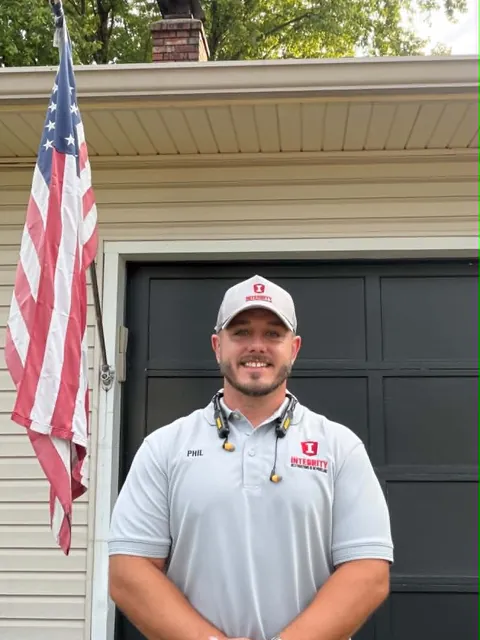
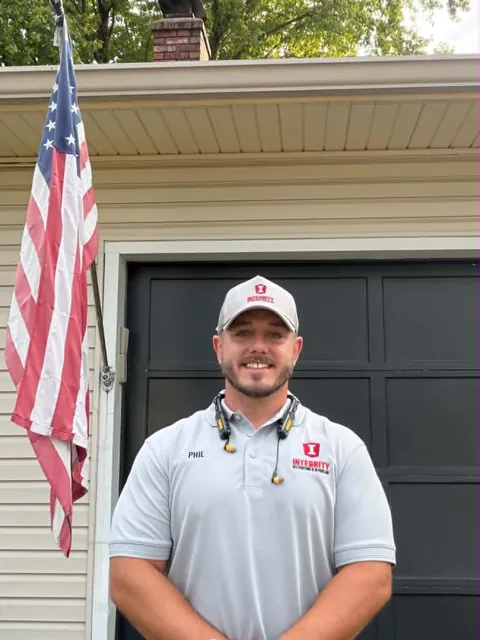
Meet Phil: back to photo one side, text the other; each photo is a frame that transitions between photos
Restores the two-column beats (and the second beat's rounded-corner
rule, which the full-width rebuild had dropped). The top frame opens on
Phil's portrait and wipes to the family photo; the second frame cycles
the three crew photos. Frames keep one fixed size. Dots under each
frame pick a photo and stop the rotation; it only runs while on screen;
reduced motion gets no rotation. Portrait re-cropped for the landscape
window, stray green edge in the source trimmed.

diff --git a/index.html b/index.html
@@ -750,39 +750,42 @@
                     <p class="section__lede" data-placeholder>Country kid from Preble County, family man in Trenton, and the standard behind the name.</p>
                 </header>
 
-                <!--two beats, both in Phil's own words (sent 9/17, lightly tidied for
-                    punctuation only). First: him. The family photo beside his
-                    portrait, his text beneath. Then the work: three crew
-                    photos across, his text beneath. This section is the one
-                    place the site speaks about Phil; everywhere else is "we".-->
+                <!--two beats, both in Phil's own words (sent 9/17, tidied for
+                    punctuation only). Photo one side, text the other, swapping
+                    sides beat by beat. Each photo is a FRAME of fixed size that
+                    script.js (beatSlides) transitions between photos: first Phil
+                    then his family; then the crew at work. The dots pick a photo
+                    and stop the rotation. Without JS the first photo shows.
+                    This section is the one place the site speaks about Phil;
+                    everywhere else is "we".-->
                 <ol class="story">
-                    <li class="beat beat--wide">
+                    <li class="beat">
+                        <figure class="beat__media">
+                            <div class="slides" data-slides>
+                                <img class="beat__photo slide is-active" src="assets/phil-self-900.webp" srcset="assets/phil-self-480.webp 480w, assets/phil-self-900.webp 900w" sizes="(min-width: 768px) 46vw, 92vw" width="900" height="1200" loading="lazy" decoding="async" data-caption="Phil Betzner, owner" alt="Phil Betzner in an Integrity polo and cap, smiling in front of his garage with an American flag beside him">
+                                <img class="beat__photo slide" src="assets/phil-family-960.webp" srcset="assets/phil-family-640.webp 640w, assets/phil-family-960.webp 960w" sizes="(min-width: 768px) 46vw, 92vw" width="960" height="640" loading="lazy" decoding="async" data-caption="The Betzners, Trenton, Ohio" alt="Phil Betzner seated on a couch with his wife Dawn and their four kids, everyone in plaid and denim">
+                            </div>
+                            <figcaption class="beat__caption">Phil Betzner, owner</figcaption>
+                        </figure>
                         <div class="beat__body">
                             <p class="beat__step">01 &middot; Roots</p>
                             <h3 class="beat__title">A country kid from Preble County</h3>
-                        </div>
-                        <!--2:1 widths with 3:2 and 3:4 shapes give the two photos the same height-->
-                        <ul class="crew crew--duo" aria-label="Phil and his family">
-                            <li class="crew__item crew__item--family"><img class="beat__photo" src="assets/phil-family-960.webp" srcset="assets/phil-family-640.webp 640w, assets/phil-family-960.webp 960w" sizes="(min-width: 768px) 60vw, 92vw" width="960" height="640" loading="lazy" decoding="async" alt="Phil Betzner seated on a couch with his wife Dawn and their four kids, everyone in plaid and denim"></li>
-                            <li class="crew__item crew__item--self"><img class="beat__photo" src="assets/phil-self-480.webp" srcset="assets/phil-self-480.webp 480w, assets/phil-self-900.webp 900w" sizes="(min-width: 768px) 30vw, 50vw" width="900" height="1200" loading="lazy" decoding="async" alt="Phil Betzner in an Integrity polo and cap, smiling in front of his garage with an American flag beside him"></li>
-                        </ul>
-                        <p class="beat__caption">The Betzners, Trenton, Ohio</p>
-                        <div class="beat__body beat__body--cols">
                             <p>Our family was raised to be honest, respectful, and hard-working. Raised in the country of West Alexandria, I started working on the farm and playing sports at a young age, and picked up wrestling from 4th through 12th grade.</p>
                             <p>I met my wife, Dawn, in 2020, and we have four kids between us, one girl and three boys: Carter, Caleb, Emma, and Caiden. Work hard, don't be afraid to dream big, and put God first in everything!</p>
                         </div>
                     </li>
-                    <li class="beat beat--wide">
+                    <li class="beat">
+                        <figure class="beat__media">
+                            <div class="slides slides--tall" data-slides>
+                                <img class="beat__photo slide is-active" src="assets/work-tile-900.webp" srcset="assets/work-tile-480.webp 480w, assets/work-tile-900.webp 900w" sizes="(min-width: 768px) 46vw, 92vw" width="900" height="1200" loading="lazy" decoding="async" data-caption="Setting floor tile" alt="Phil kneeling in an Integrity shirt, setting patterned floor tile">
+                                <img class="beat__photo slide" src="assets/work-ceiling-900.webp" srcset="assets/work-ceiling-480.webp 480w, assets/work-ceiling-900.webp 900w" sizes="(min-width: 768px) 46vw, 92vw" width="900" height="1200" loading="lazy" decoding="async" data-caption="Insulating an open ceiling" alt="A crew member in an Integrity shirt fastening insulation into an open ceiling bay">
+                                <img class="beat__photo slide" src="assets/work-kitchen-900.webp" srcset="assets/work-kitchen-480.webp 480w, assets/work-kitchen-900.webp 900w" sizes="(min-width: 768px) 46vw, 92vw" width="900" height="1200" loading="lazy" decoding="async" data-caption="A kitchen, mid-remodel" alt="Two crew members at work in a kitchen with navy cabinets, one wearing an Integrity shirt">
+                            </div>
+                            <figcaption class="beat__caption">Setting floor tile</figcaption>
+                        </figure>
                         <div class="beat__body">
                             <p class="beat__step">02 &middot; The work</p>
                             <h3 class="beat__title">We take the details to heart</h3>
-                        </div>
-                        <ul class="crew" aria-label="The crew at work">
-                            <li class="crew__item"><img class="beat__photo" src="assets/work-ceiling-480.webp" srcset="assets/work-ceiling-480.webp 480w, assets/work-ceiling-900.webp 900w" sizes="(min-width: 768px) 30vw, 64vw" width="900" height="1200" loading="lazy" decoding="async" alt="A crew member in an Integrity shirt fastening insulation into an open ceiling bay"></li>
-                            <li class="crew__item"><img class="beat__photo" src="assets/work-kitchen-480.webp" srcset="assets/work-kitchen-480.webp 480w, assets/work-kitchen-900.webp 900w" sizes="(min-width: 768px) 30vw, 64vw" width="900" height="1200" loading="lazy" decoding="async" alt="Two crew members at work in a kitchen with navy cabinets, one wearing an Integrity shirt"></li>
-                            <li class="crew__item"><img class="beat__photo" src="assets/work-tile-480.webp" srcset="assets/work-tile-480.webp 480w, assets/work-tile-900.webp 900w" sizes="(min-width: 768px) 30vw, 64vw" width="900" height="1200" loading="lazy" decoding="async" alt="Phil kneeling in an Integrity shirt, setting patterned floor tile"></li>
-                        </ul>
-                        <div class="beat__body beat__body--cols">
                             <p>We are thankful for our customers and the business they provide for us. It's essential that all of our customers' wants and needs are met. We take the details to heart and strive to give our customers a great experience from estimate to completion.</p>
                             <p>We have over 20 years of commercial and residential maintenance experience. Have a need for apartment or rental maintenance? We would be happy to provide quick and seamless repairs and upgrades to your commercial properties: plumbing, drywall, painting, cabinets, lighting, and more. You can know that your properties, your employees, and your tenants will always be met with respect and integrity.</p>
                         </div>

diff --git a/script.js b/script.js
@@ -1247,10 +1247,16 @@ function philStory() {
     const beats = [...document.querySelectorAll(".beat")];
     if (!beats.length || reduceMotion) return;
     beats.forEach((beat, i) => {
-        const wideBeat = beat.classList.contains("beat--wide");     /* the work: three photos across, no columns */
+        const media = beat.querySelector(".beat__media");
+        const photo = beat.querySelector(".beat__photo");            /* the frame's first photo */
         const step  = beat.querySelector(".beat__step");
         const title = beat.querySelector(".beat__title");
         const paras = beat.querySelectorAll(".beat__body > p:not(.beat__step)");
+        const photoRight = i % 2 === 1;                      /* even beats: photo left; odd: photo right */
+        const wipe = { p: 0 };
+        const draw = () => { const hid = ((1 - wipe.p) * 100).toFixed(3) + "%"; media.style.clipPath = photoRight ? `inset(0 0 0 ${hid})` : `inset(0 ${hid} 0 0)`; };
+        draw();
+        gsap.set(photo, { scale: 1.12, transformOrigin: "50% 50%" });
 
         /* THE COPY TYPES ITSELF OUT: the title letter by letter, then each
            paragraph word by word in reading order. No motion, just each
@@ -1265,33 +1271,6 @@ function philStory() {
             scrollTrigger: { trigger: beat, start: "top 72%", once: true },
             onComplete() { titleSplit.revert(); paraSplits.forEach((s) => s.revert()); }
         });
-
-        if (wideBeat) {
-            /* each crew photo wipes in left to right inside its own frame,
-               one after another, settling from a slight zoom */
-            const frames = [...beat.querySelectorAll(".crew__item")];
-            frames.forEach((f, k) => {
-                const w = { p: 0 };
-                const draw = () => { f.style.clipPath = `inset(0 ${((1 - w.p) * 100).toFixed(3)}% 0 0)`; };
-                draw();
-                gsap.set(f.querySelector(".beat__photo"), { scale: 1.12, transformOrigin: "50% 50%" });
-                tl.to(w, { p: 1, duration: 0.9, ease: "power3.inOut", onUpdate: draw, onComplete: () => { f.style.clipPath = ""; } }, 0.25 + k * 0.18)
-                  .to(f.querySelector(".beat__photo"), { scale: 1, duration: 1.3, ease: "power2.out", clearProps: "transform" }, 0.25 + k * 0.18);
-            });
-            tl.to(step, { autoAlpha: 1, duration: 0.3 }, 0)
-              .to(titleSplit.chars, { autoAlpha: 1, duration: 0.01, stagger: 0.035 }, 0.1);
-            paraSplits.forEach((s, k) => tl.to(s.words, { autoAlpha: 1, duration: 0.01, stagger: 0.016 }, k === 0 ? 1.1 : "+=0.1"));
-            return;
-        }
-
-        const media = beat.querySelector(".beat__media");
-        const photo = beat.querySelector(".beat__photo");
-        const photoRight = i % 2 === 1;                      /* even beats: photo left; odd: photo right */
-        const wipe = { p: 0 };
-        const draw = () => { const hid = ((1 - wipe.p) * 100).toFixed(3) + "%"; media.style.clipPath = photoRight ? `inset(0 0 0 ${hid})` : `inset(0 ${hid} 0 0)`; };
-        draw();
-        gsap.set(photo, { scale: 1.12, transformOrigin: "50% 50%" });
-
         tl.to(wipe, { p: 1, duration: 1.0, ease: "power3.inOut", onUpdate: draw, onComplete: () => { media.style.clipPath = ""; } })
           .to(photo, { scale: 1, duration: 1.4, ease: "power2.out", clearProps: "transform" }, 0)
           .to(step, { autoAlpha: 1, duration: 0.3 }, 0.3)
@@ -1301,13 +1280,68 @@ function philStory() {
     gsap.matchMedia().add("(min-width: 768px)", () => {
         beats.forEach((beat) => {
             const st = { trigger: beat, start: "top bottom", end: "bottom top", scrub: true };
-            if (beat.classList.contains("beat--wide")) {
-                /* the three photos drift at three speeds, so the row breathes */
-                beat.querySelectorAll(".crew__item").forEach((f, k) => gsap.fromTo(f, { y: [36, 64, 20][k % 3] }, { y: -[36, 64, 20][k % 3], ease: "none", scrollTrigger: st }));
-                return;
-            }
             gsap.fromTo(beat.querySelector(".beat__media"), { y: 56 }, { y: -56, ease: "none", scrollTrigger: st });
             gsap.fromTo(beat.querySelector(".beat__body"),  { y: -36 }, { y: 36, ease: "none", scrollTrigger: st });
+        });
+    });
+}
+
+/* ---------- MEET PHIL: the photo frames ----------
+   Each [data-slides] frame holds several photos at one fixed size. One
+   shows; every few seconds the next wipes in over it, left to right,
+   settling from a slight zoom (the same language as the before and
+   after photos). It only runs while the frame is on screen. A row of
+   dots under the frame picks a photo directly and stops the rotation,
+   so nobody is stuck with content that moves on its own. Reduced
+   motion: no rotation, and the dots swap photos instantly. */
+function beatSlides() {
+    document.querySelectorAll("[data-slides]").forEach((frame) => {
+        const slides  = [...frame.querySelectorAll(".slide")];
+        if (slides.length < 2) return;
+        const caption = frame.parentElement.querySelector(".beat__caption");
+        let index = 0, busy = false, auto = !reduceMotion, timer = null;
+
+        const dots = document.createElement("div");
+        dots.className = "slides__dots"; dots.setAttribute("role", "group"); dots.setAttribute("aria-label", "Choose a photo");
+        const buttons = slides.map((s, k) => {
+            const btn = document.createElement("button");
+            btn.type = "button"; btn.className = "slides__dot";
+            btn.setAttribute("aria-label", `Photo ${k + 1} of ${slides.length}: ${s.dataset.caption || ""}`);
+            btn.setAttribute("aria-pressed", String(k === 0));
+            btn.addEventListener("click", () => { auto = false; stop(); go(k); });
+            dots.appendChild(btn); return btn;
+        });
+        frame.after(dots);
+
+        function mark(n) {
+            buttons.forEach((bt, k) => bt.setAttribute("aria-pressed", String(k === n)));
+            if (caption) caption.textContent = slides[n].dataset.caption || "";
+        }
+        function go(n) {
+            if (n === index || busy) return;
+            const from = slides[index], to = slides[n];
+            to.loading = "eager";
+            if (!to.complete || !to.naturalWidth) { to.addEventListener("load", () => go(n), { once: true }); return; }   /* not here yet: try again when it lands */
+            if (reduceMotion) { from.classList.remove("is-active"); to.classList.add("is-active"); index = n; mark(n); return; }
+            busy = true; mark(n);
+            const w = { p: 0 };
+            gsap.set(to, { visibility: "visible", zIndex: 2, scale: 1.1, transformOrigin: "50% 50%", clipPath: "inset(0 100% 0 0)" });
+            gsap.timeline({ onComplete() {
+                    from.classList.remove("is-active"); to.classList.add("is-active");
+                    gsap.set(to, { clearProps: "visibility,zIndex,transform,clipPath" });
+                    index = n; busy = false; if (auto) queue();
+                } })
+                .to(w, { p: 1, duration: 1.1, ease: "power3.inOut", onUpdate: () => { to.style.clipPath = `inset(0 ${((1 - w.p) * 100).toFixed(3)}% 0 0)`; } })
+                .to(to, { scale: 1, duration: 1.5, ease: "power2.out" }, 0);
+        }
+        function queue() { stop(); timer = gsap.delayedCall(4.2, () => go((index + 1) % slides.length)); }
+        function stop()  { if (timer) { timer.kill(); timer = null; } }
+
+        if (!auto) return;
+        slides.forEach((s) => { s.loading = "eager"; });        /* they will be needed within seconds */
+        ScrollTrigger.create({
+            trigger: frame, start: "top 85%", end: "bottom 15%",
+            onToggle: (self) => { if (!auto) return; if (self.isActive) queue(); else stop(); }
         });
     });
 }
@@ -1384,6 +1418,7 @@ document.fonts.ready.then(() => {
     contactForm();
     shieldCard();
     philStory();
+    beatSlides();
     qualsIntro();
     sectionReveals();
     sectionFades();

diff --git a/styles.css b/styles.css
@@ -612,28 +612,29 @@ button { font: inherit; color: inherit; background: none; border: 0; cursor: poi
    family photo rounds top-right and bottom-left, the craft photo
    top-left and bottom-right, so the pair reads as a matched set */
 .beat:nth-child(odd)  .beat__photo { border-radius: 0 56px 0 56px; }
-/* THE WORK: a full-width beat. Its head, three crew photos across, then
-   the text. Phones get a swipeable row so each portrait stays a real size. */
-.beat--wide { display: block; }
-.crew {
-    display: flex; gap: 12px; margin: 18px calc(-1 * var(--gutter)) 22px; padding: 0 var(--gutter) 6px;
-    overflow-x: auto; scroll-snap-type: x mandatory; -webkit-overflow-scrolling: touch; scrollbar-width: none;
+.beat:nth-child(even) .beat__photo { border-radius: 56px 0 56px 0; }
+/* THE FRAME: a beat's photo is a window of fixed shape (3:2, or 4:5 for the
+   portrait crew shots) holding several photos. One shows; script.js wipes
+   the next in over it, so the frame never changes size. The frame carries
+   the rounded corners; the photos inside are square and cover it. */
+.slides { position: relative; overflow: hidden; aspect-ratio: 3 / 2; background: var(--grey-300); border-radius: 0 56px 0 56px; }
+.slides--tall { aspect-ratio: 4 / 5; }
+.beat:nth-child(even) .slides { border-radius: 56px 0 56px 0; }
+.beat .slides .slide {
+    position: absolute; inset: 0; width: 100%; height: 100%; object-fit: cover; border-radius: 0;
+    visibility: hidden;
 }
-.crew::-webkit-scrollbar { display: none; }
-.crew__item { flex: 0 0 64%; scroll-snap-align: center; overflow: hidden; aspect-ratio: 4 / 5; }
-.beat.beat--wide .crew__item .beat__photo { width: 100%; height: 100%; object-fit: cover; border-radius: 0; }   /* the frame carries the corners, not the image */
-.crew__item:nth-child(odd)  { border-radius: 44px 0 44px 0; }
-.crew__item:nth-child(even) { border-radius: 0 44px 0 44px; }
-/* THE DUO (Phil's beat): no swipe row on phones. The family photo runs
-   full width and his portrait is laid over its bottom edge, where there
-   is only floor, framed in the section's grey like a second print. */
-.crew--duo { display: block; overflow: visible; margin-inline: 0; padding: 0; }
-.crew--duo .crew__item--family { aspect-ratio: 3 / 2; }
-.crew--duo .crew__item--self {
-    position: relative; width: 50%; aspect-ratio: 3 / 4; margin: -34px 0 0 auto;
-    border: 6px solid var(--grey-100); box-shadow: 0 14px 30px rgba(35, 31, 32, .2);
-}
-.beat--wide .beat__caption { margin: -6px 0 18px; }
+.beat .slides .slide.is-active { visibility: visible; }
+.slides .slide:first-child { object-position: 50% 62%; }     /* the portrait in a landscape window: face in the upper third, shoulders and shirt below */
+.slides--tall .slide:first-child { object-position: 50% 50%; }
+/* the dots: one per photo, styled like the site's progress bars. Picking
+   one shows that photo and stops the rotation. */
+.slides__dots { display: flex; gap: 6px; margin-top: 12px; }
+.slides__dot { position: relative; width: 34px; height: 24px; }                  /* a tall hit area around a thin bar */
+.slides__dot::before { content: ""; position: absolute; left: 0; right: 0; top: 11px; height: 3px; background: var(--grey-300); transition: background-color .3s; }
+.slides__dot[aria-pressed="true"]::before { background: var(--grad-brand); }
+.slides__dot:hover::before, .slides__dot:focus-visible::before { background: var(--red-dark); }
+.beat__media .beat__caption { margin-top: 2px; }
 .beat__caption {
     margin-top: 10px; font-family: var(--font-ui); font-weight: 500; font-size: 13px;
     letter-spacing: .1em; text-transform: uppercase; color: var(--grey-700);
@@ -1178,21 +1179,9 @@ body.has-dialog { overflow: hidden; }
     .beat { grid-template-columns: minmax(0, 1fr) minmax(0, 1fr); gap: 48px; align-items: center; }
     .beat:nth-child(even) .beat__media { order: 2; }
     .beat:nth-child(odd)  .beat__photo { border-radius: 0 88px 0 88px; }
-    /* the duo: side by side. 2:1 widths with 3:2 and 3:4 shapes = equal heights */
-    .crew--duo { display: flex; }
-    .crew--duo .crew__item--family { flex: 2 1 0; }
-    .crew--duo .crew__item--self { flex: 1 1 0; width: auto; margin: 0; border: 0; box-shadow: none; }
-    .beat--wide .beat__caption { margin: -22px 0 26px; }
-    /* the work: photos in a true row of three, the text in two columns */
-    .beat.beat--wide { display: block; }
-    .beat--wide > .beat__body:first-child { text-align: center; }
-    .crew { margin: 26px 0 34px; padding: 0; gap: 24px; overflow: visible; align-items: flex-start; }   /* no stretch: each photo keeps its own shape */
-    .crew__item { flex: 1 1 0; }
-    .crew__item:nth-child(odd)  { border-radius: 72px 0 72px 0; }
-    .crew__item:nth-child(even) { border-radius: 0 72px 0 72px; }
-    .crew__item:nth-child(2) { margin-top: 40px; }            /* the middle photo sits a step lower */
-    .beat__body--cols { column-count: 2; column-gap: 48px; max-width: 1000px; margin-inline: auto; }
-    .beat__body--cols p { break-inside: avoid; }
+    .beat:nth-child(even) .beat__photo { border-radius: 88px 0 88px 0; }
+    .slides { border-radius: 0 88px 0 88px; }
+    .beat:nth-child(even) .slides { border-radius: 88px 0 88px 0; }
     .beat__body p:not(.beat__step) { font-size: 17px; }
 
     /* split shield: wider caps, roomier panel */
